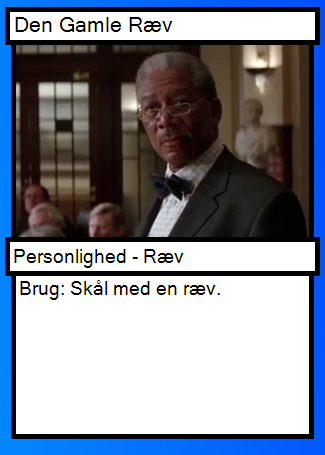
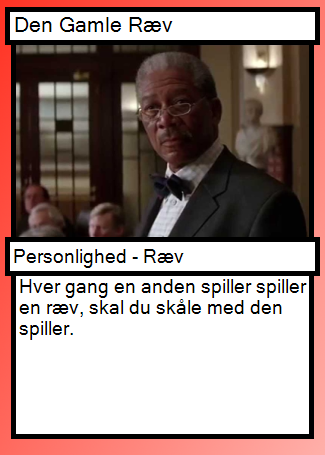
Påbudt personlighed

Changed region(s): [[0.0, 0.0, 1.0, 1.0]]

diff --git a/RaeveSpil/RaeveSpil/Controller/CardController.cs b/RaeveSpil/RaeveSpil/Controller/CardController.cs
@@ -21,13 +21,10 @@ namespace RaeveSpil.Controller
             {
                 var card = new Card();
                 card.Type = lines[i++];
-                if (card.IsAction())
+                if (lines[i] == "Påbudt")
                 {
-                    if(lines[i] == "Påbudt")
-                    {
-                        card.IsMandatory = true;
-                        i++;
-                    }
+                    card.IsMandatory = true;
+                    i++;
                 }
                 card.Name = lines[i++];
                 while (i < lines.Length && !string.IsNullOrWhiteSpace(lines[i]))
@@ -49,7 +46,7 @@ namespace RaeveSpil.Controller
         {
             var type = card.Type.Split(' ')[0];
             var backgroundType = type;
-            if (card.IsAction() && card.IsMandatory)
+            if (card.IsMandatory)
             {
                 backgroundType = "Påbudt " + type;
             }
